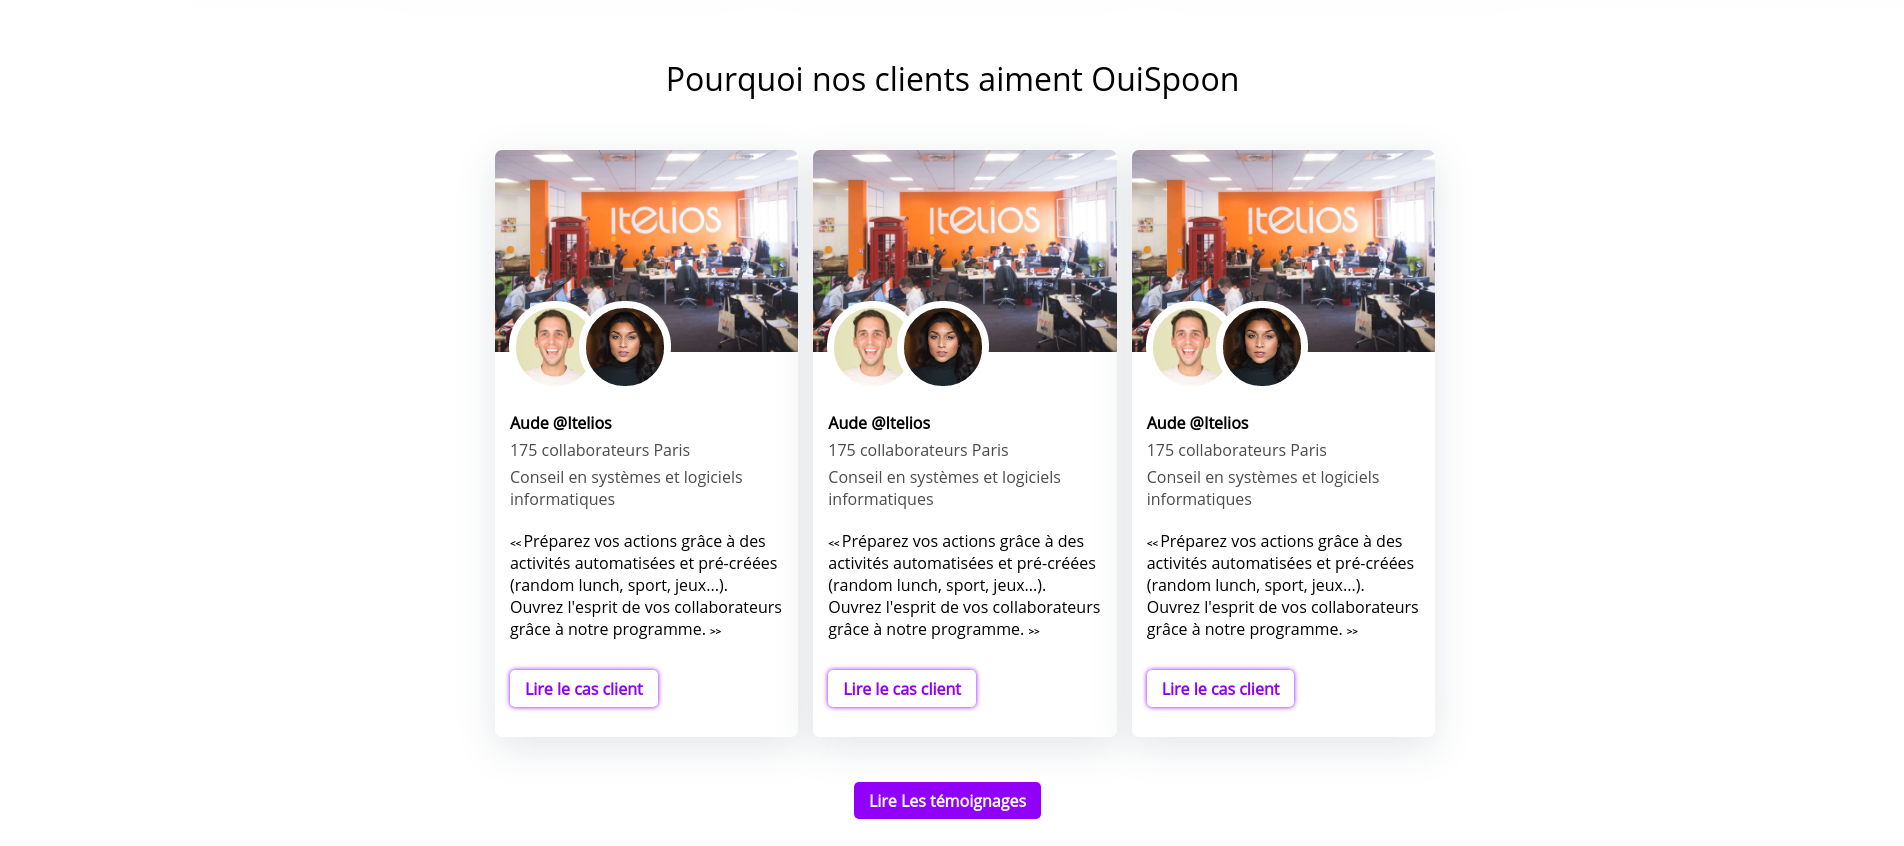
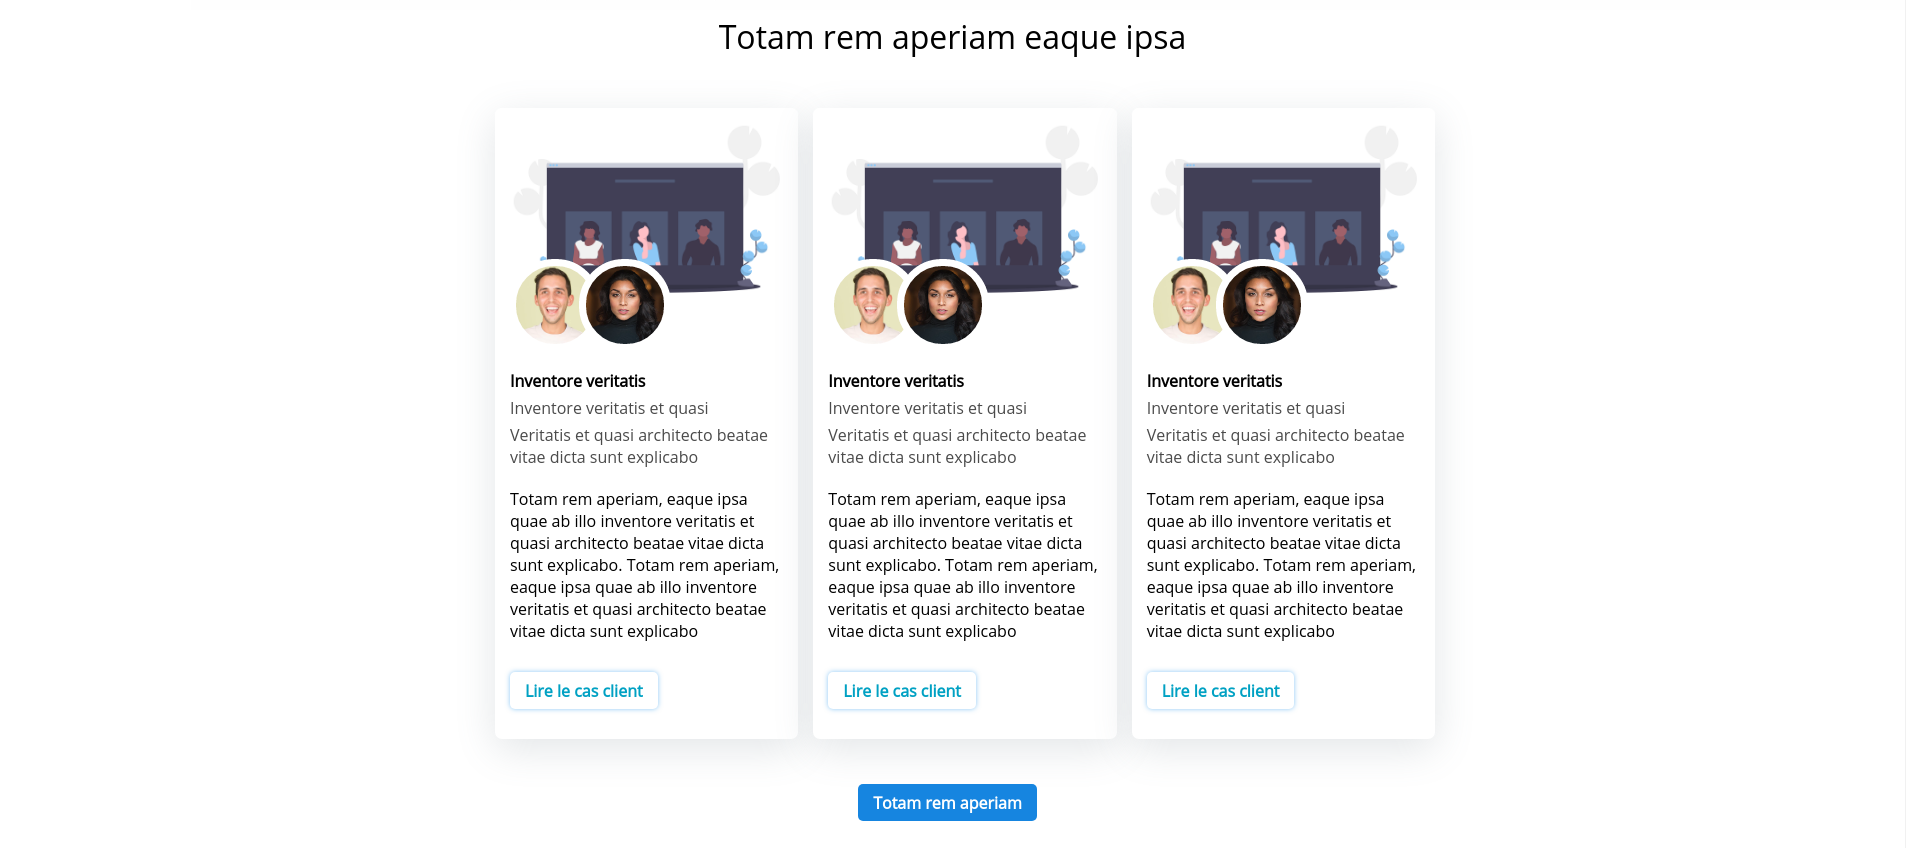
generic

Changed region(s): [[0.2479, 0.1537, 0.7747, 0.8605], [0.3409, 0.0307, 0.6507, 0.1229], [0.4338, 0.922, 0.5578, 0.9835]]

diff --git a/src/defaultFeature.js b/src/defaultFeature.js
@@ -2,7 +2,7 @@ export function getNewFeature() {
     try {
         const newFeature = {
             "background": {
-                "uniqueId": 12661074949,
+                "uniqueId": 12414987911,
                 "wwVersion": 3,
                 "content": {
                     "type": "ww-color",
@@ -50,12 +50,12 @@ export function getNewFeature() {
                 "anim": {}
             },
             "banner": {
-                "uniqueId": 12193544998,
+                "uniqueId": 14542664481,
                 "wwVersion": 3,
                 "content": {
                     "type": "ww-image",
                     "data": {
-                        "url": "https://wewebapp.s3.eu-west-3.amazonaws.com/designs/7/sections/nNt67i28FXj5nqnsaIxZeMToT8mCxfzV.jpg",
+                        "url": "https://wewebapp.s3.eu-west-3.amazonaws.com/designs/7/sections/JcOgNd0XThGZNOpudphOJdAdummfWnQ1.png",
                         "alt": "",
                         "position": {
                             "x": 0,
@@ -67,7 +67,7 @@ export function getNewFeature() {
                             "width": "100%",
                             "height": "100%"
                         },
-                        "zoom": 1.3940594059405942,
+                        "zoom": 1.051916545366327,
                         "style": {
                             "borderRadius": 0,
                             "borderWidth": 0,
@@ -105,7 +105,7 @@ export function getNewFeature() {
                             50,
                             50
                         ],
-                        "crop": "72px100p@14px0p"
+                        "crop": "95px100p@2px0p"
                     }
                 },
                 "link": {
@@ -135,13 +135,13 @@ export function getNewFeature() {
             },
             "contents": [
                 {
-                    "uniqueId": 4749010445,
+                    "uniqueId": 1366604594,
                     "wwVersion": 3,
                     "content": {
                         "type": "ww-text",
                         "data": {
                             "text": {
-                                "fr": "<font face=\"Open Sans, sans-serif\"><b>Aude @Itelios</b></font>"
+                                "fr": "<font face=\"Open Sans, sans-serif\"><b>Inventore veritatis</b></font>"
                             },
                             "tag": "div",
                             "align": "",
@@ -178,13 +178,13 @@ export function getNewFeature() {
                     "anim": {}
                 },
                 {
-                    "uniqueId": 1983314519,
+                    "uniqueId": 10741570462,
                     "wwVersion": 3,
                     "content": {
                         "type": "ww-text",
                         "data": {
                             "text": {
-                                "fr": "<font face=\"Open Sans, sans-serif\" color=\"#4a4a4a\">175 collaborateurs Paris</font>"
+                                "fr": "<font face=\"Open Sans, sans-serif\" color=\"#4a4a4a\">Inventore veritatis et quasi </font>"
                             },
                             "tag": "div",
                             "align": "",
@@ -221,13 +221,13 @@ export function getNewFeature() {
                     "anim": {}
                 },
                 {
-                    "uniqueId": 4933781839,
+                    "uniqueId": 14639073201,
                     "wwVersion": 3,
                     "content": {
                         "type": "ww-text",
                         "data": {
                             "text": {
-                                "fr": "<font face=\"Open Sans, sans-serif\" color=\"#4a4a4a\">Conseil en systèmes et logiciels informatiques</font>"
+                                "fr": "<font face=\"Open Sans, sans-serif\" color=\"#4a4a4a\"> Veritatis et quasi architecto beatae vitae dicta sunt explicabo</font>"
                             },
                             "tag": "div",
                             "align": "",
@@ -264,13 +264,13 @@ export function getNewFeature() {
                     "anim": {}
                 },
                 {
-                    "uniqueId": 4609644600,
+                    "uniqueId": 3651329666,
                     "wwVersion": 3,
                     "content": {
                         "type": "ww-text",
                         "data": {
                             "text": {
-                                "fr": "<font face=\"Open Sans, sans-serif\"><b><span style=\"font-size:0.6rem\">&lt;&lt;&nbsp;</span></b>Préparez vos actions grâce à des activités automatisées et pré-créées (random lunch, sport, jeux...). Ouvrez l'esprit de vos collaborateurs grâce à notre programme.&nbsp;<span style=\"font-size:0.6rem\"><b>&gt;&gt;</b></span></font>"
+                                "fr": "<font face=\"Open Sans, sans-serif\">Totam rem aperiam, eaque ipsa quae ab illo inventore veritatis et quasi architecto beatae vitae dicta sunt explicabo. Totam rem aperiam, eaque ipsa quae ab illo inventore veritatis et quasi architecto beatae vitae dicta sunt explicabo&nbsp;</font><br>"
                             },
                             "tag": "div",
                             "align": "",
@@ -320,7 +320,7 @@ export function getNewFeature() {
                     "content": {
                         "data": {
                             "text": {
-                                "uniqueId": 1404594620,
+                                "uniqueId": 4214870736,
                                 "new": false,
                                 "anim": {},
                                 "data": {},
@@ -338,7 +338,7 @@ export function getNewFeature() {
                                         "size": "",
                                         "text": {
                                             "en": "<font face=\"Open Sans, sans-serif\" color=\"#9013fe\"><b>Lire Le cas client</b></font>",
-                                            "fr": "<font face=\"Open Sans, sans-serif\" color=\"#9013fe\"><b>Lire le cas client</b></font>"
+                                            "fr": "<font face=\"Open Sans, sans-serif\" color=\"#00a3c7\"><b>Lire le cas client</b></font>"
                                         },
                                         "align": "",
                                         "color": "",
@@ -356,7 +356,7 @@ export function getNewFeature() {
                                 "gradient": {},
                                 "boxShadow": {
                                     "b": "5",
-                                    "c": "#9013FE",
+                                    "c": "#90CAF9",
                                     "s": "0",
                                     "x": 0,
                                     "y": 0
@@ -381,13 +381,13 @@ export function getNewFeature() {
                             "bottom": 30
                         }
                     },
-                    "uniqueId": 10979752089,
+                    "uniqueId": 257876355,
                     "wwVersion": 3
                 }
             ],
             "teamRow": [
                 {
-                    "uniqueId": 14482836194,
+                    "uniqueId": 3444782773,
                     "wwVersion": 3,
                     "content": {
                         "type": "ww-image",
@@ -472,7 +472,7 @@ export function getNewFeature() {
                     "anim": {}
                 },
                 {
-                    "uniqueId": 2218943451,
+                    "uniqueId": 4688841863,
                     "wwVersion": 3,
                     "content": {
                         "type": "ww-image",
